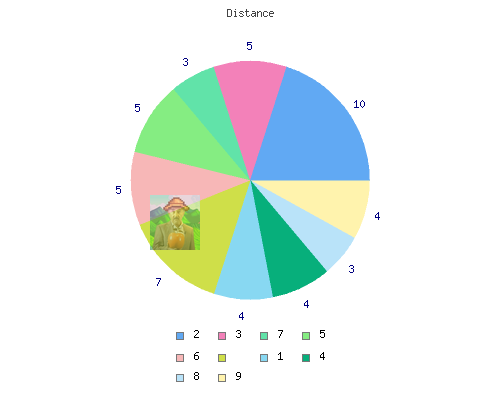
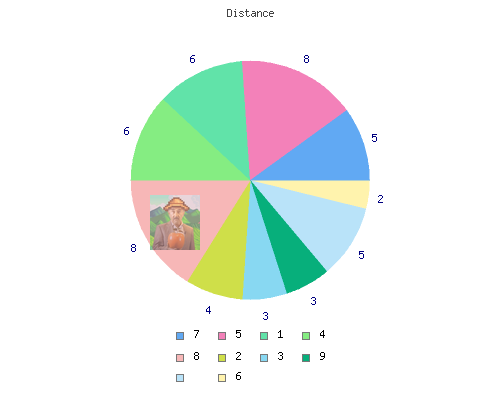
ыыыыыыы

diff --git a/prac6/src/private/fixtures.php b/prac6/src/private/fixtures.php
@@ -46,7 +46,7 @@ while ($row = $stmt->fetch()) {
     echo "id: " . $row["id"] . " - Name: " . $row["name"] .
         " - Distance from star: " . $row["distance_from_star"] .
         " - Mass: " . $row["mass"] .
-        " - Radius: " . $row["distance_from_star"] . "<br>";
+        " - Radius: " . $row["radius"] . "<br>";
 }
 
 $graph = new Graph(900, 300);
@@ -76,8 +76,8 @@ $graph = new Graph(700, 800);
 $graph->SetScale("linlin");
 $graph->img->SetMargin(40, 40, 40, 40);
 $graph->SetShadow();
-$graph->title->Set('Distance');
-$sp1 = new ScatterPlot(array_count_values($distanceArr));
+$graph->title->Set('Radius');
+$sp1 = new ScatterPlot(array_count_values($radiusArr));
 $graph->Add($sp1);
 $graph->Stroke('charts/scatter.png');
 
